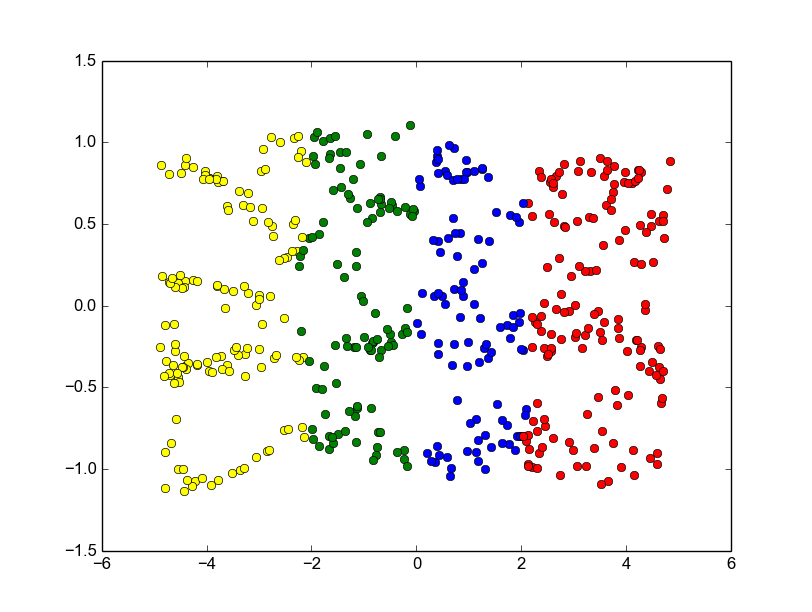
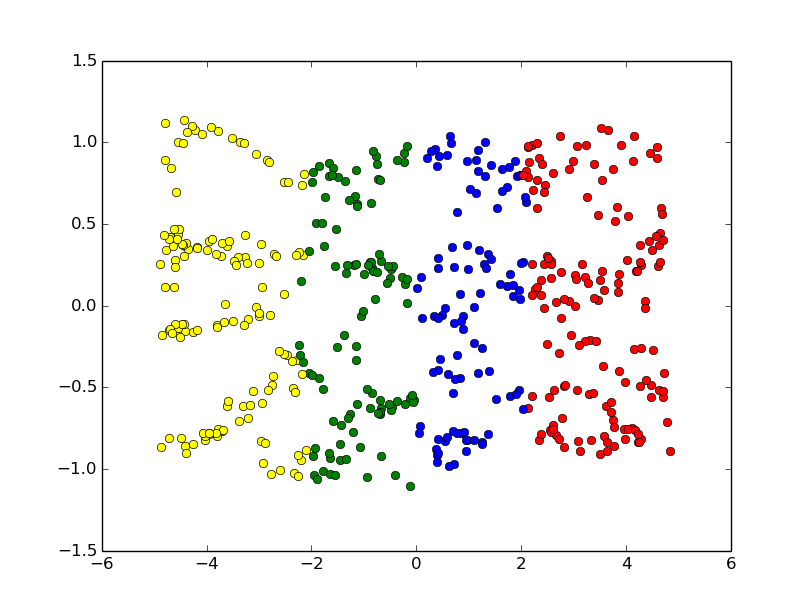
Completed but somewhat buggy version of LLE

diff --git a/homework2/3Ddata/threedata.py b/homework2/3Ddata/threedata.py
@@ -1,6 +1,8 @@
 import numpy as np
 import matplotlib.pyplot as plt
 from scipy import spatial
+from scipy.linalg import solve
+
 #from sklearn.neighbors import NearestNeighbors
 
 #This code will import the dataset 3Ddata.txt and perform the following:
@@ -55,6 +57,14 @@ def geteigenmatrix(pairs, dimension):
     matrix_w = np.hstack((pairs[0][1].reshape(rows, columns), pairs[1][1].reshape(rows, columns)))
     return matrix_w
 
+#Generates matrix of two bottom eigenvectors with specified number of dimensions
+def getreverseeigenmatrix(pairs, dimension):
+    rows = dimension + 1
+    columns = 1
+    size_pairs = len(pairs)
+    matrix_w = np.hstack((pairs[size_pairs - 2][1].reshape(rows, columns), pairs[size_pairs - 3][1].reshape(rows, columns)))
+    return matrix_w
+
 #Diagonal matrix containing 2 leading eigenvalues on the diagonals
 def geteigenvaluematrix(pairs):
     s = (2,2)
@@ -82,107 +92,224 @@ def floyds(matrix):
                 output[i][j] = replacement_val
     return output
 
-#First import the dataset
-data = loaddata("3Ddata.txt")
+#Run PCA
+def PCA():
+    print("Doing PCA...")
+    #First import the dataset
+    data = loaddata("3Ddata.txt")
+    #Do PCA
+    pca_mean = getmeanvector(data)
+    data[:, 0] = data[:, 0] - pca_mean[0]
+    data[:, 1] = data[:, 1] - pca_mean[1]
+    data[:, 2] = data[:, 2] - pca_mean[2]
+    pca_covar = getcovarmatrix(data)
+    eig_val_cov, eig_vec_cov = geteigens(pca_covar)
+    eig_pairs = sorteigens(eig_val_cov, eig_vec_cov)
+    eigen_matrix = geteigenmatrix(eig_pairs, 2)
+    #Reorganize data
+    reorganized_data = np.vstack((data[:,0], data[:,1],data[:,2]))
 
-#Do PCA
-pca_mean = getmeanvector(data)
-data[:, 0] = data[:, 0] - pca_mean[0]
-data[:, 1] = data[:, 1] - pca_mean[1]
-data[:, 2] = data[:, 2] - pca_mean[2]
-pca_covar = getcovarmatrix(data)
-eig_val_cov, eig_vec_cov = geteigens(pca_covar)
-eig_pairs = sorteigens(eig_val_cov, eig_vec_cov)
-eigen_matrix = geteigenmatrix(eig_pairs, 2)
-#Reorganize data
-reorganized_data = np.vstack((data[:,0], data[:,1],data[:,2]))
+    pca_output = projectdata(eigen_matrix, reorganized_data)
 
-pca_output = projectdata(eigen_matrix, reorganized_data)
+    #Plot PCA results
+    #Tag points with appropriate color
+    for i, point in enumerate(data):
+        if(point[3] == 1):
+            plt.plot([pca_output[0,i]], [pca_output[1,i]], color="green", marker='o')
+        if(point[3] == 2):
+            plt.plot([pca_output[0,i]], [pca_output[1,i]], color="yellow", marker='o')
+        if(point[3] == 3):
+            plt.plot([pca_output[0,i]], [pca_output[1,i]], color="blue", marker='o')
+        if(point[3] == 4):
+            plt.plot([pca_output[0,i]], [pca_output[1,i]], color="red", marker='o')
 
-#Plot PCA results
+    f = plt.figure(1)
+
+    """colors = cm.rainbow(np.linspace(0, 1, cluster_number))
+    for x, c in zip(range(0, cluster_number), colors):
+        label_name = "Cluster number " + str(x)
+        plt.scatter([item[0] for item in organized_data[x]], [item[1] for item in organized_data[x]], color=c, marker='o', label=label_name)
+    leg = plt.legend(loc=2, prop={'size':13}) #Might need to change this if dataset changes
+    """
+
+    f.show()
+    f.savefig("pca_output.png")
+
+#Run Isomap
+def Isomap():
+    print("Doing Isomap..")
+    #Do Isomap
+    #Re-import the dataset
+    data = loaddata("3Ddata.txt")
+
+    #Compute distances between every point (not sure I need this anymore)
+    reorganized_data = np.vstack((data[:,0], data[:,1],data[:,2]))
+    Y = spatial.distance.cdist(reorganized_data.T, reorganized_data.T, 'euclidean') #Accepts input in the form of m x n array, m = number of observations, n = number of dimensions
+
+    #Find k-nearest neighbors
+    NN_tree = spatial.cKDTree(reorganized_data.T)
+    """
+    for point in reorganized_data.T:
+        k_nns = NN_tree.query(point, k=10) #k_nns is a tuple containing a list of the nearest neighbor distances and the associated index of the nearest points
+    """
+
+    for i in range(0, Y[0].size):
+        k_nns = NN_tree.query(reorganized_data.T[i], k=11, p=2)
+        for j in range(0, Y[0].size):
+            if(j == i):
+                Y[i][j] = 0
+            elif(j in k_nns[1]):
+                continue
+            else:
+                Y[i][j] = float("inf")
+
+    #Do Floyd's algorithm
+    shortest = floyds(Y)
+
+    #Create matrix of squared distances
+    squared_shortest = np.square(shortest)
+    #Create centering matrix
+    centering = np.zeros((squared_shortest[0].size, squared_shortest[0].size))
+    np.fill_diagonal(centering, 1.0)
+    centering = centering - (1.0 / squared_shortest[0].size)
+    tau = reduce(np.dot, [centering, squared_shortest, centering])
+    tau = -0.5*tau
+    eig_val_cov, eig_vec_cov = geteigens(tau)
+    eig_pairs = sorteigens(eig_val_cov, eig_vec_cov)
+    eigen_matrix = geteigenmatrix(eig_pairs, squared_shortest[0].size - 1)
+    lambda_matrix = geteigenvaluematrix(eig_pairs)
+    isomap_output = np.dot(np.real(eigen_matrix), np.sqrt(lambda_matrix))
+
+    #Plot Isomap results
+
+    g = plt.figure(2)
+
+    #Tag points with appropriate color
+    for i, point in enumerate(data):
+        if(int(point[3]) == 1):
+            plt.plot([isomap_output[i,0]], [isomap_output[i,1]], color="green", marker='o')
+        if(int(point[3]) == 2):
+            plt.plot([isomap_output[i,0]], [isomap_output[i,1]], color="yellow", marker='o')
+        if(int(point[3]) == 3):
+            plt.plot([isomap_output[i,0]], [isomap_output[i,1]], color="blue", marker='o')
+        if(int(point[3]) == 4):
+            plt.plot([isomap_output[i,0]], [isomap_output[i,1]], color="red", marker='o')
+
+    g.show()
+    g.savefig("isomap_output.png")
+
+#Do LLE
+def LLE():
+    print("Doing LLE...")
+    #Re-import the dataset
+    data = loaddata("3Ddata.txt")
+
+    #Compute distances between every point (not sure I need this anymore)
+    reorganized_data = np.vstack((data[:,0], data[:,1],data[:,2]))
+    Y = spatial.distance.cdist(reorganized_data.T, reorganized_data.T, 'euclidean') #Accepts input in the form of m x n array, m = number of observations, n = number of dimensions
+
+    #Find k-nearest neighbors
+    NN_tree = spatial.cKDTree(reorganized_data.T)
+    """
+    for point in reorganized_data.T:
+        k_nns = NN_tree.query(point, k=10) #k_nns is a tuple containing a list of the nearest neighbor distances and the associated index of the nearest points
+    """
+    nearest_neighbors = 10 #User input
+    nearest_neighbors += 1
+    data_dimension = data[0].size - 1
+    #print(data_dimension)
+    #Build weight matrix
+    number_points = reorganized_data[0].size
+    #print(number_points)
+    weights = np.zeros((number_points, number_points))
+    #print(weights)
+    for i in range(0, number_points):
+        k_nns = NN_tree.query(reorganized_data.T[i], k=nearest_neighbors, p=2)
+        #print(k_nns)
+        Xi = reorganized_data.T[k_nns[1][0]]
+        Xi = np.reshape(Xi, (3, 1))
+        #print(Xi)
+        #Matrix Z ultimately consists of nearest neighbors minus data point
+        #Z = np.delete(reorganized_data, i, axis=1)
+        #print(Z)
+        Z = np.zeros((data_dimension, nearest_neighbors - 1))
+        for j in range(1, nearest_neighbors):
+            #print(j)
+            #print(k_nns)
+            #print(reorganized_data.T[k_nns[1][j]])
+            Z[:,j - 1] = reorganized_data.T[k_nns[1][j]]
+        #print(Z)
+        Z = Z - Xi
+        C = np.cov(Z.T)
+        #Regularize covariance matrix to get full rank
+        eps = 1e-3*np.trace(C)
+        #C = C+eps*np.identity(number_points - 1)
+        C = C + eps*np.identity(nearest_neighbors - 1)
+        #C_inverse = np.linalg.inv(C) #Likely not strictly the most efficient but okay for the small size we have here
+        ones = np.ones((nearest_neighbors - 1, 1))
+        w = solve(C, ones)
+        #print(Z)
+        #print(C)
+        #print(C_inverse)
+        #sum_c_inverse = np.sum(C_inverse)
+        sum_w = np.sum(w)
+        #print(sum_c_inverse)
+        #print(k_nns[1][1:])
+        #print(w)
+        weight_getter = 0
+        for j in k_nns[1][1:]:
+            """
+            if(j > i):
+                weights[i][j] = np.sum(C_inverse[j - 1]) / sum_c_inverse
+            else:
+                weights[i][j] = np.sum(C_inverse[j]) / sum_c_inverse
+            """
+            weights[i][j] = w[weight_getter] / sum_w
+            weight_getter += 1
+    #print(weights)
+    M = np.cov((np.identity(number_points) - weights).T)
+    eig_val, eig_vec = geteigens(M)
+    #print(eig_val)
+    #print(eig_vec)
+    eig_pairs = sorteigens(eig_val, eig_vec)
+    #print(eig_pairs)
+    eigen_matrix = getreverseeigenmatrix(eig_pairs, number_points - 1)
+    eigen_matrix /= eig_pairs[number_points - 1][1][0] #This is a hack but the bottom eigenvector is supposed to be a matrix of all ones but instead it's some constant less than one, so I'm taking that constant and rescaling the other eigenvectors
+    #print(eigen_matrix)
+    #print(len(eig_pairs))
+    #print(eig_pairs[499][1])
+    #print(eig_pairs[499][0])
+    #print(eig_pairs[498][0])
+    #print(eig_pairs[497][0])
+
+    lle_output = eigen_matrix
+
+    #Plot LLE results
+
+    h = plt.figure(3)
+
+    #Tag points with appropriate color
+    for i, point in enumerate(data):
+        if(int(point[3]) == 1):
+            plt.plot([lle_output[i,0]], [lle_output[i,1]], color="green", marker='o')
+        if(int(point[3]) == 2):
+            plt.plot([lle_output[i,0]], [lle_output[i,1]], color="yellow", marker='o')
+        if(int(point[3]) == 3):
+            plt.plot([lle_output[i,0]], [lle_output[i,1]], color="blue", marker='o')
+        if(int(point[3]) == 4):
+            plt.plot([lle_output[i,0]], [lle_output[i,1]], color="red", marker='o')
+
+    h.show()
+    h.savefig("lle_output.png")
 
 
-#Tag points with appropriate color
-for i, point in enumerate(data):
-    if(point[3] == 1):
-        plt.plot([pca_output[0,i]], [pca_output[1,i]], color="green", marker='o')
-    if(point[3] == 2):
-        plt.plot([pca_output[0,i]], [pca_output[1,i]], color="yellow", marker='o')
-    if(point[3] == 3):
-        plt.plot([pca_output[0,i]], [pca_output[1,i]], color="blue", marker='o')
-    if(point[3] == 4):
-        plt.plot([pca_output[0,i]], [pca_output[1,i]], color="red", marker='o')
+#Run various methods
+def main():
+    #PCA()
+    #Isomap()
+    LLE()
 
-f = plt.figure(1)
 
-"""colors = cm.rainbow(np.linspace(0, 1, cluster_number))
-for x, c in zip(range(0, cluster_number), colors):
-    label_name = "Cluster number " + str(x)
-    plt.scatter([item[0] for item in organized_data[x]], [item[1] for item in organized_data[x]], color=c, marker='o', label=label_name)
-leg = plt.legend(loc=2, prop={'size':13}) #Might need to change this if dataset changes
-"""
 
-f.show()
-f.savefig("pca_output.png")
-
-#Do Isomap
-#Re-import the dataset
-data = loaddata("3Ddata.txt")
-
-#Compute distances between every point (not sure I need this anymore)
-reorganized_data = np.vstack((data[:,0], data[:,1],data[:,2]))
-Y = spatial.distance.cdist(reorganized_data.T, reorganized_data.T, 'euclidean') #Accepts input in the form of m x n array, m = number of observations, n = number of dimensions
-
-#Find k-nearest neighbors
-NN_tree = spatial.cKDTree(reorganized_data.T)
-"""
-for point in reorganized_data.T:
-    k_nns = NN_tree.query(point, k=10) #k_nns is a tuple containing a list of the nearest neighbor distances and the associated index of the nearest points
-"""
-
-for i in range(0, Y[0].size):
-    k_nns = NN_tree.query(reorganized_data.T[i], k=11, p=2)
-    for j in range(0, Y[0].size):
-        if(j == i):
-            Y[i][j] = 0
-        elif(j in k_nns[1]):
-            continue
-        else:
-            Y[i][j] = float("inf")
-
-#Do Floyd's algorithm
-shortest = floyds(Y)
-
-#Create matrix of squared distances
-squared_shortest = np.square(shortest)
-#Create centering matrix
-centering = np.zeros((squared_shortest[0].size, squared_shortest[0].size))
-np.fill_diagonal(centering, 1.0)
-centering = centering - (1.0 / squared_shortest[0].size)
-tau = reduce(np.dot, [centering, squared_shortest, centering])
-tau = -0.5*tau
-eig_val_cov, eig_vec_cov = geteigens(tau)
-eig_pairs = sorteigens(eig_val_cov, eig_vec_cov)
-eigen_matrix = geteigenmatrix(eig_pairs, squared_shortest[0].size - 1)
-lambda_matrix = geteigenvaluematrix(eig_pairs)
-isomap_output = np.dot(np.real(eigen_matrix), np.sqrt(lambda_matrix))
-
-#Plot Isomap results
-
-g = plt.figure(2)
-
-#Tag points with appropriate color
-for i, point in enumerate(data):
-    if(int(point[3]) == 1):
-        plt.plot([isomap_output[i,0]], [isomap_output[i,1]], color="green", marker='o')
-    if(int(point[3]) == 2):
-        plt.plot([isomap_output[i,0]], [isomap_output[i,1]], color="yellow", marker='o')
-    if(int(point[3]) == 3):
-        plt.plot([isomap_output[i,0]], [isomap_output[i,1]], color="blue", marker='o')
-    if(int(point[3]) == 4):
-        plt.plot([isomap_output[i,0]], [isomap_output[i,1]], color="red", marker='o')
-
-g.show()
-g.savefig("isomap_output.png")
-
-#np.set_printoptions(threshold='nan')
+np.set_printoptions(threshold='nan')
+main()
